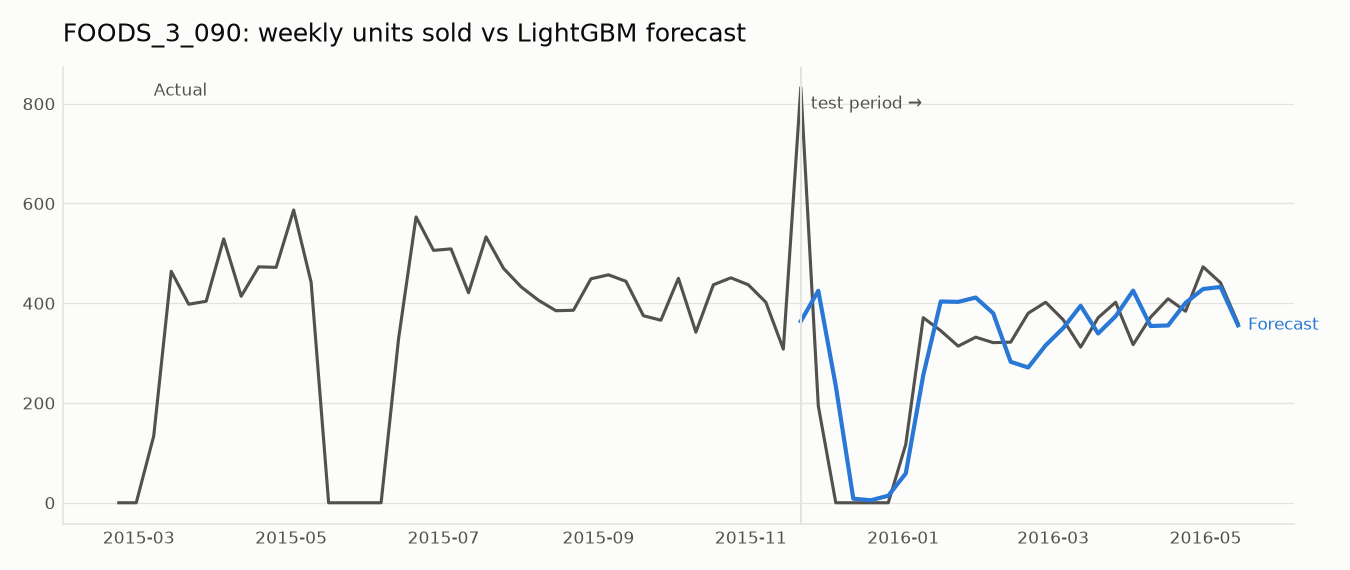
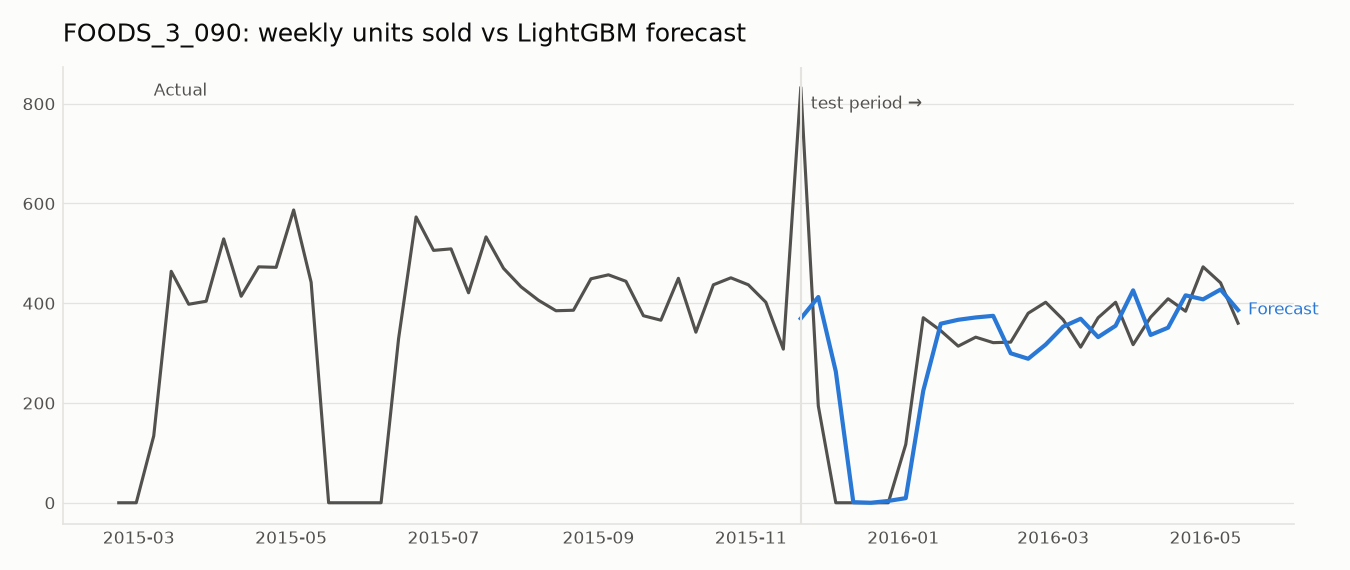
Add rolling-origin CV, Optuna tuning, SHAP explanations and MLflow tracking
tune.py tunes LightGBM with 4-fold rolling-origin CV and 50 Optuna trials (never touching the test weeks) and writes output/best_params.json, which forecast.py now uses. forecast.py adds TreeSHAP feature impact (with an additivity self-check) and logs each backtest to MLflow. README documents the CV results and new findings.

diff --git a/forecast.py b/forecast.py
@@ -6,6 +6,7 @@
 
 Usage:  python forecast.py
 """
+import json
 from pathlib import Path
 
 import lightgbm as lgb
@@ -78,12 +79,18 @@ FEATURES = ["lag_1", "lag_2", "lag_3", "lag_4", "lag_52", "mean_4", "mean_13", "
 
 
 # ---------- 2. forecasts ----------
-def lightgbm_forecast(df, train_end, pred_mask):
+DEFAULT_PARAMS = dict(objective="regression_l1", n_estimators=400, learning_rate=0.03, num_leaves=31,
+                      min_child_samples=20, subsample=0.8, subsample_freq=1, colsample_bytree=0.8)
+BEST_PARAMS = OUT / "best_params.json"  # written by tune.py; tuning never sees the test weeks
+
+
+def lgb_params():
+    return {**DEFAULT_PARAMS, **json.loads(BEST_PARAMS.read_text())} if BEST_PARAMS.exists() else DEFAULT_PARAMS
+
+
+def lightgbm_forecast(df, train_end, pred_mask, params=None):
     train = df[(df.week_start < train_end)].dropna(subset=["lag_52"])
-    # L1 objective picked on validation weeks (WAPE 19.9% vs 20.5% tweedie, 21.3% L2); test weeks never used for tuning
-    model = lgb.LGBMRegressor(objective="regression_l1", n_estimators=400, learning_rate=0.03,
-                              num_leaves=31, min_child_samples=20, subsample=0.8, subsample_freq=1,
-                              colsample_bytree=0.8, random_state=42, verbose=-1)
+    model = lgb.LGBMRegressor(**(params or lgb_params()), random_state=42, verbose=-1)
     model.fit(train[FEATURES], train["units"])
     return model.predict(df.loc[pred_mask, FEATURES]).clip(0), model
 
@@ -246,6 +253,50 @@ def charts(df, acc, curve):
     save(fig, "3_inventory_tradeoff.png")
 
 
+def shap_importance(model, test):
+    """Mean |SHAP value| per feature on the test weeks, in units sold (LightGBM's built-in TreeSHAP)."""
+    contrib = model.predict(test[FEATURES], pred_contrib=True)  # last column is the base value
+    # Self-check: SHAP values plus base value must add back up to the raw prediction.
+    assert np.allclose(contrib.sum(axis=1), model.predict(test[FEATURES]), atol=1e-3)
+    return pd.Series(np.abs(contrib[:, :-1]).mean(axis=0), FEATURES).sort_values(ascending=False)
+
+
+FEATURE_LABELS = {
+    "lag_1": "Sales last week", "lag_2": "Sales 2 weeks ago", "lag_3": "Sales 3 weeks ago",
+    "lag_4": "Sales 4 weeks ago", "lag_52": "Sales same week last year", "mean_4": "4-week average",
+    "mean_13": "13-week average", "std_13": "13-week volatility", "item": "Which product",
+    "snap_days": "SNAP benefit days", "week_of_year": "Week of year", "event_days": "Holiday/event days",
+    "price_ratio": "Price vs recent price", "sell_price": "Price",
+}
+
+
+def shap_chart(impact):
+    fig, ax = plt.subplots(figsize=(8, 4.2), dpi=150)
+    fig.patch.set_facecolor(SURFACE)
+    style(ax, "What drives the forecast: average impact per feature (units/week, SHAP)")
+    s = impact.iloc[::-1].rename(FEATURE_LABELS)
+    bars = ax.barh(s.index, s.values, height=0.6, color=BLUE)
+    for b, v in zip(bars, s.values):
+        ax.text(b.get_width() + s.max() * 0.01, b.get_y() + b.get_height() / 2, f"{v:.1f}", va="center",
+                fontsize=8, color=MUTED)
+    ax.xaxis.set_visible(False)
+    save(fig, "4_shap.png")
+
+
+def log_run(acc, needed):
+    import mlflow  # imported here so the forecast itself runs without MLflow installed
+    mlflow.set_tracking_uri(f"sqlite:///{(ROOT / 'mlflow.db').as_posix()}")
+    mlflow.set_experiment("demand-forecasting")
+    with mlflow.start_run(run_name="test-backtest"):
+        mlflow.log_params({**lgb_params(), "tuned": BEST_PARAMS.exists(), "test_weeks": TEST_WEEKS})
+        for m in METHODS:
+            key = m.lower().replace(" ", "_").replace("(", "").replace(")", "")
+            mlflow.log_metric(f"test_wape_{key}", float(acc.loc[m, "WAPE"]))
+            mlflow.log_metric(f"inventory_at_98_fill_{key}", float(needed[m]))
+        for chart in OUT.glob("*.png"):
+            mlflow.log_artifact(str(chart))
+
+
 def main():
     OUT.mkdir(exist_ok=True)
     df = add_features(build_weekly())
@@ -273,10 +324,12 @@ def main():
     plan[["item_id", "abc", "safety_stock", "reorder_up_to", "fill_rate"]].round(
         {"safety_stock": 0, "reorder_up_to": 0, "fill_rate": 3}) \
         .sort_values(["abc", "item_id"]).to_csv(OUT / "reorder_plan.csv", index=False)
-    pd.Series(model.feature_importances_, FEATURES).sort_values(ascending=False) \
-        .to_csv(OUT / "feature_importance.csv", header=["importance"])
+    impact = shap_importance(model, test)
+    impact.to_csv(OUT / "shap_importance.csv", header=["mean_abs_shap_units"])
     curve.to_csv(OUT / "tradeoff_curve.csv", index=False)
     charts(df, acc, curve)
+    shap_chart(impact)
+    log_run(acc, needed)
 
     print(f"{N_ITEMS} items, {pd.Timestamp(weeks.min()):%d %b %Y} to {pd.Timestamp(weeks.max()):%d %b %Y}; "
           f"test = last {TEST_WEEKS} weeks from {pd.Timestamp(weeks[-TEST_WEEKS]):%d %b %Y}")

diff --git a/tune.py b/tune.py
@@ -1,0 +1,100 @@
+"""Tune the LightGBM forecaster with rolling-origin cross-validation and Optuna, tracked in MLflow.
+
+Only weeks before the 26-week test period are used: 4 folds, each validating on the next 13 weeks
+after training on everything before it. The best parameters go to output/best_params.json,
+which forecast.py then uses.
+
+Usage:  python tune.py            (about 5 minutes)
+        mlflow ui --backend-store-uri sqlite:///mlflow.db     to browse the runs
+"""
+import json
+
+import mlflow
+import numpy as np
+import optuna
+
+from forecast import BEST_PARAMS, DEFAULT_PARAMS, OUT, ROOT, TEST_WEEKS, add_features, build_weekly, lightgbm_forecast
+
+FOLDS, FOLD_WEEKS, TRIALS = 4, 13, 50
+
+
+def make_folds(weeks):
+    """(train_end, val_mask_weeks) pairs walking back from the test start; the newest fold is last."""
+    dev = weeks[:-TEST_WEEKS]
+    return [(dev[-(k + 1) * FOLD_WEEKS], dev[-(k + 1) * FOLD_WEEKS: len(dev) - k * FOLD_WEEKS])
+            for k in reversed(range(FOLDS))]
+
+
+def wape(pred, actual):
+    return np.abs(pred - actual).sum() / actual.sum()
+
+
+def cv_scores(df, folds, params):
+    scores = []
+    for train_end, val_weeks in folds:
+        mask = df.week_start.isin(val_weeks)
+        pred, _ = lightgbm_forecast(df, train_end, mask, params)
+        scores.append(wape(pred, df.loc[mask, "units"].to_numpy()))
+    return scores
+
+
+def baseline_scores(df, folds, column):
+    return [wape(df.loc[df.week_start.isin(v), column], df.loc[df.week_start.isin(v), "units"]) for _, v in folds]
+
+
+def main():
+    OUT.mkdir(exist_ok=True)
+    df = add_features(build_weekly())
+    weeks = np.sort(df.week_start.unique())
+    folds = make_folds(weeks)
+    # Self-check: no fold may touch the test weeks, and folds must not overlap.
+    assert max(v.max() for _, v in folds) < weeks[-TEST_WEEKS]
+    assert len(np.unique(np.concatenate([v for _, v in folds]))) == FOLDS * FOLD_WEEKS
+
+    mlflow.set_tracking_uri(f"sqlite:///{(ROOT / 'mlflow.db').as_posix()}")
+    mlflow.set_experiment("demand-forecasting")
+    optuna.logging.set_verbosity(optuna.logging.WARNING)
+
+    with mlflow.start_run(run_name="optuna-tuning"):
+        baselines = {"naive": baseline_scores(df, folds, "lag_1"), "moving_avg_4w": baseline_scores(df, folds, "mean_4"),
+                     "lightgbm_default": cv_scores(df, folds, DEFAULT_PARAMS)}
+        for name, s in baselines.items():
+            mlflow.log_metric(f"cv_wape_{name}", float(np.mean(s)))
+        mlflow.log_params({"folds": FOLDS, "fold_weeks": FOLD_WEEKS, "trials": TRIALS})
+
+        def objective(trial):
+            params = {
+                "objective": trial.suggest_categorical("objective", ["regression_l1", "regression", "tweedie", "poisson"]),
+                "n_estimators": trial.suggest_int("n_estimators", 100, 1000, step=50),
+                "learning_rate": trial.suggest_float("learning_rate", 0.01, 0.2, log=True),
+                "num_leaves": trial.suggest_int("num_leaves", 8, 128, log=True),
+                "min_child_samples": trial.suggest_int("min_child_samples", 5, 100, log=True),
+                "subsample": trial.suggest_float("subsample", 0.5, 1.0), "subsample_freq": 1,
+                "colsample_bytree": trial.suggest_float("colsample_bytree", 0.5, 1.0),
+                "reg_lambda": trial.suggest_float("reg_lambda", 1e-3, 10, log=True),
+            }
+            scores = cv_scores(df, folds, params)
+            with mlflow.start_run(run_name=f"trial-{trial.number}", nested=True):
+                mlflow.log_params(params)
+                mlflow.log_metric("cv_wape", float(np.mean(scores)))
+                for i, s in enumerate(scores):
+                    mlflow.log_metric(f"fold_{i}_wape", float(s))
+            return float(np.mean(scores))
+
+        study = optuna.create_study(direction="minimize", sampler=optuna.samplers.TPESampler(seed=42))
+        study.optimize(objective, n_trials=TRIALS)
+
+        best = {**study.best_params, "subsample_freq": 1}
+        BEST_PARAMS.write_text(json.dumps(best, indent=2))
+        mlflow.log_metric("cv_wape_best", study.best_value)
+        mlflow.log_artifact(str(BEST_PARAMS))
+
+    print(f"Rolling-origin CV, {FOLDS} folds x {FOLD_WEEKS} weeks (mean WAPE):")
+    for name, s in baselines.items():
+        print(f"  {name:18s} {np.mean(s):.1%}   folds: {', '.join(f'{x:.1%}' for x in s)}")
+    print(f"  {'lightgbm_tuned':18s} {study.best_value:.1%}   ({TRIALS} Optuna trials)")
+    print("Best params:", json.dumps(best))
+
+
+if __name__ == "__main__":
+    main()

diff --git a/README.md b/README.md
@@ -7,14 +7,17 @@
 ## Key findings
 Scope: 50 top-selling food SKUs at Walmart store CA_1. Backtested on the last 26 weeks (Nov 2015 to May 2016), which the model never saw during training or tuning.
 
-1. **LightGBM cut forecast error to 20.3% WAPE**, against 22.3% for last-week naive and 23.4% for a 4-week moving average. That is a 9% relative improvement, with almost no bias (-0.4%).
+1. **The tuned LightGBM model cut forecast error to 20.1% WAPE**, against 22.3% for last-week naive and 23.4% for a 4-week moving average. That is a 10% relative improvement, with little bias (-1.2%).
 2. **Better forecasts mean less safety stock.** To serve 98% of demand, the LightGBM-driven policy needs **$9.3k of average inventory, against $10.9k for the best simple method (15% less) and $12.0k for naive (22% less)**.
 3. **Seasonal naive (same week last year) is a poor choice here.** It has 45% error and needs more than twice the inventory, because grocery demand shifts too much year to year.
-4. **Recent sales and seasonality drive the model.** The top features are last week's sales, sales 52 weeks ago, week of year and recent volatility.
+4. **Last week's sales drive the forecast; price barely matters.** SHAP values show last week's sales move a prediction by 39 units on average, far more than anything else. Which product it is (9), sales a year ago (3.5) and SNAP benefit days (2.1) come next. Price changes have almost no effect for these staple foods.
+5. **Hyperparameter tuning helped only a little.** Optuna's best settings improved cross-validated error from 23.0% to 22.5% and test error from 20.3% to 20.1%. The default model was already close to optimal; better data (see Limitations) would likely help more than more tuning.
 
 | | |
 |---|---|
 | ![Accuracy](output/1_accuracy.png) | ![Example](output/2_example_item.png) |
+
+![SHAP feature impact](output/4_shap.png)
 
 ## Method
 1. **Data:** daily unit sales were rolled up to Walmart weeks for the 50 highest-volume `FOODS_3` items at store `CA_1`, from 2013 to 2016. Weekly price, SNAP benefit days and event days were joined on.
@@ -23,13 +26,27 @@ Scope: 50 top-selling food SKUs at Walmart store CA_1. Backtested on the last 26
    - **Moving average:** the last 4 weeks.
    - **Seasonal naive:** the same week last year.
    - **LightGBM:** one global model for all items, using lag, rolling and price features, plus SNAP days, events, week of year and item.
-   - The LightGBM loss function (L1) was chosen on a separate 13-week validation window, not on the test set.
+   - LightGBM settings were tuned without touching the test set (see Model development).
 3. **Inventory policy:**
    - Weekly review with 1-week lead time, using an order-up-to level: `S = 2 × forecast + safety stock`.
    - Safety stock is calculated as `z × σ(forecast error) × √2`. The error spread σ is measured on the validation weeks.
    - Service targets follow **ABC classes**, based on each item's share of revenue: A = 98% (26 items), B = 95% (15), C = 90% (9).
 4. **Simulation:** each method's policy is replayed week by week on the real test demand. Unmet demand counts as a lost sale. To compare methods fairly, safety stock is scaled from 0× to 2.5×, which traces the fill-rate vs inventory curve above. The methods are then compared at the same 98% fill rate.
 5. **Self-checks** in the code: every method forecasts every test week, fill rates stay between 0 and 1, there's no negative stock, and every item has an ABC class.
+
+## Model development
+- **Rolling-origin cross-validation** (`tune.py`): 4 folds before the test period. Each fold trains on all earlier weeks and validates on the next 13, the way the model is used in practice. A random split would leak future weeks into training.
+- **Hyperparameter search with Optuna**: 50 trials over loss function, tree size, learning rate, sampling and regularisation, scored by mean cross-validated WAPE.
+
+  | Model (cross-validated, 4 folds) | Mean WAPE |
+  |---|---|
+  | Naive | 24.1% |
+  | 4-week moving average | 29.2% |
+  | LightGBM, default settings | 23.0% |
+  | **LightGBM, tuned** | **22.5%** |
+
+- **Experiment tracking with MLflow**: every trial's parameters and fold scores, and every test backtest with its charts, are logged to `mlflow.db`. Browse them with `mlflow ui --backend-store-uri sqlite:///mlflow.db`.
+- **Explainability with SHAP**: LightGBM's built-in TreeSHAP splits each test prediction into per-feature contributions. A self-check confirms the contributions add back up to the prediction.
 
 ## Outputs
 | File | Contents |
@@ -38,7 +55,8 @@ Scope: 50 top-selling food SKUs at Walmart store CA_1. Backtested on the last 26
 | `output/inventory_summary.csv` | Fill rate, inventory, safety stock and stockouts by method |
 | `output/tradeoff_curve.csv` | Points on the curve in the chart |
 | `output/reorder_plan.csv` | **Per-SKU safety stock and order-up-to level**, i.e. what a planner would use |
-| `output/feature_importance.csv` | LightGBM feature importance |
+| `output/shap_importance.csv` | Average SHAP impact per feature, in units per week |
+| `output/best_params.json` | Tuned LightGBM settings from `tune.py` |
 
 ## Limitations
 - **Sales are not the same as demand.** 9% of item-weeks show zero sales, including multi-week gaps for items that normally sell hundreds a week (16 of the 25 items that average 100+ units a week). These gaps are most likely stockouts, so real demand is understated. A next step would be to flag these weeks and exclude them from training.
@@ -49,6 +67,7 @@ Scope: 50 top-selling food SKUs at Walmart store CA_1. Backtested on the last 26
 ```bash
 pip install -r requirements.txt
 # download m5.zip (https://github.com/Nixtla/m5-forecasts/raw/main/datasets/m5.zip) and unzip into data/raw/
-python forecast.py
+python tune.py       # optional, about 5 min: cross-validation + Optuna, writes output/best_params.json
+python forecast.py   # backtest, inventory simulation, SHAP, logs to MLflow
 ```
-The first run builds `data/weekly.csv` (about 1 min). Later runs reuse it.
+The first run builds `data/weekly.csv` (about 1 min). Later runs reuse it. Tested on Python 3.14 (Optuna and MLflow don't install on 3.15 yet).
